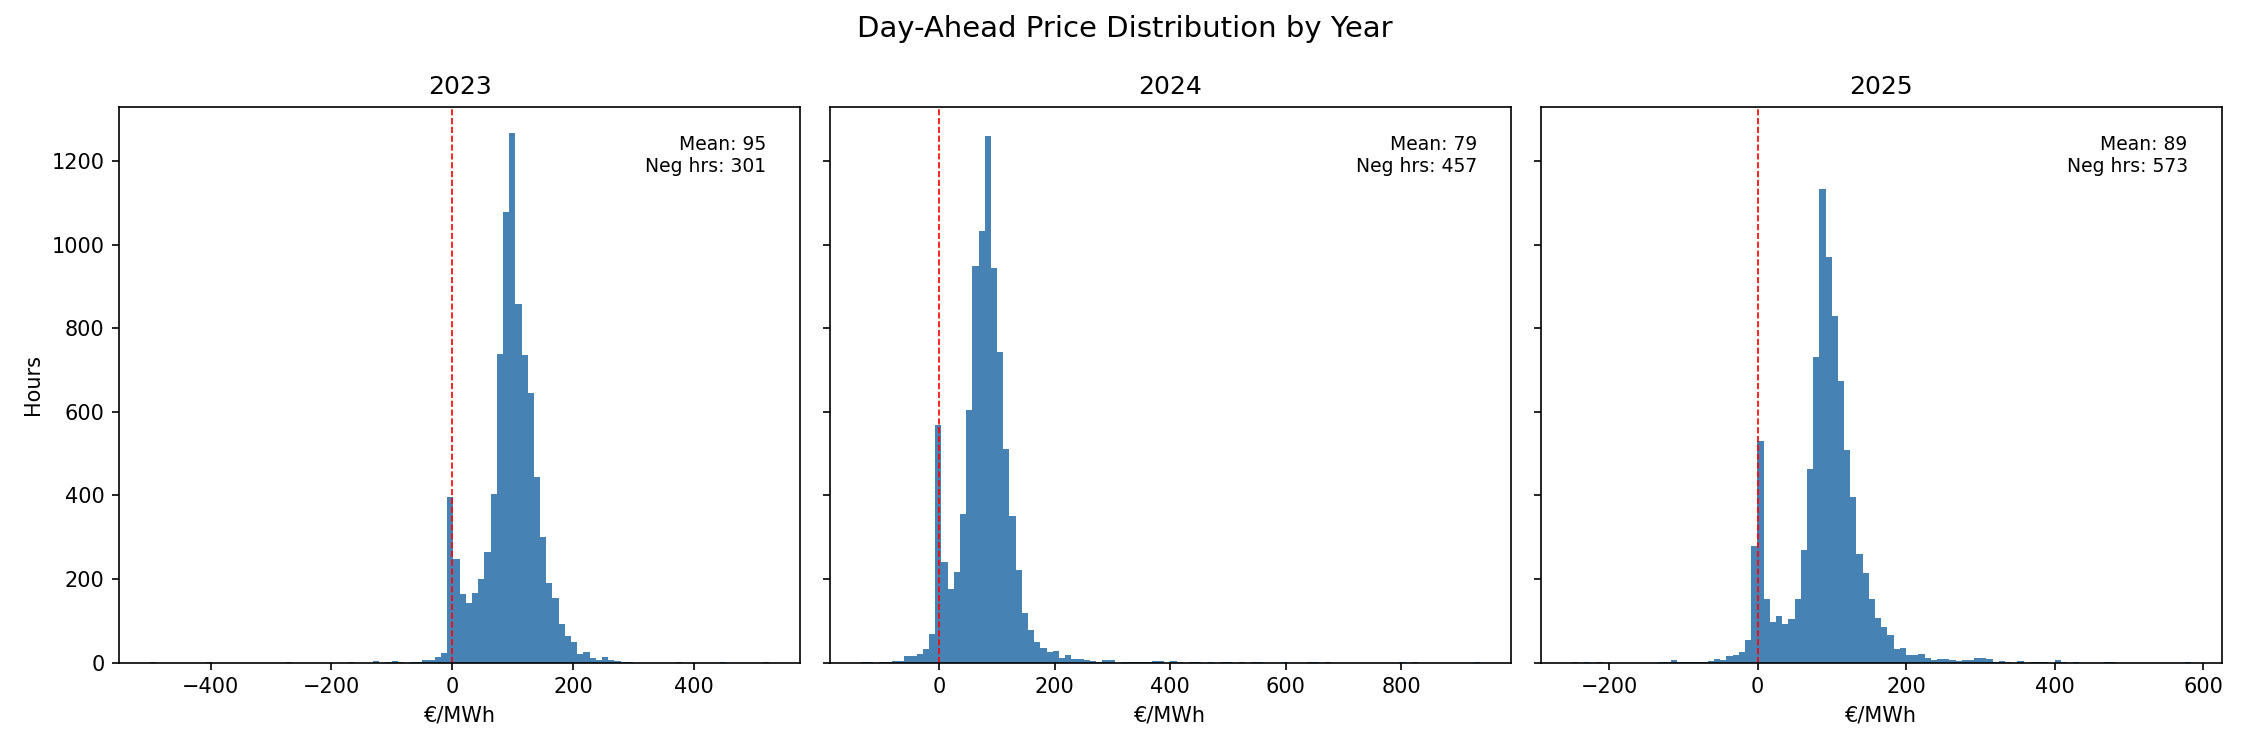
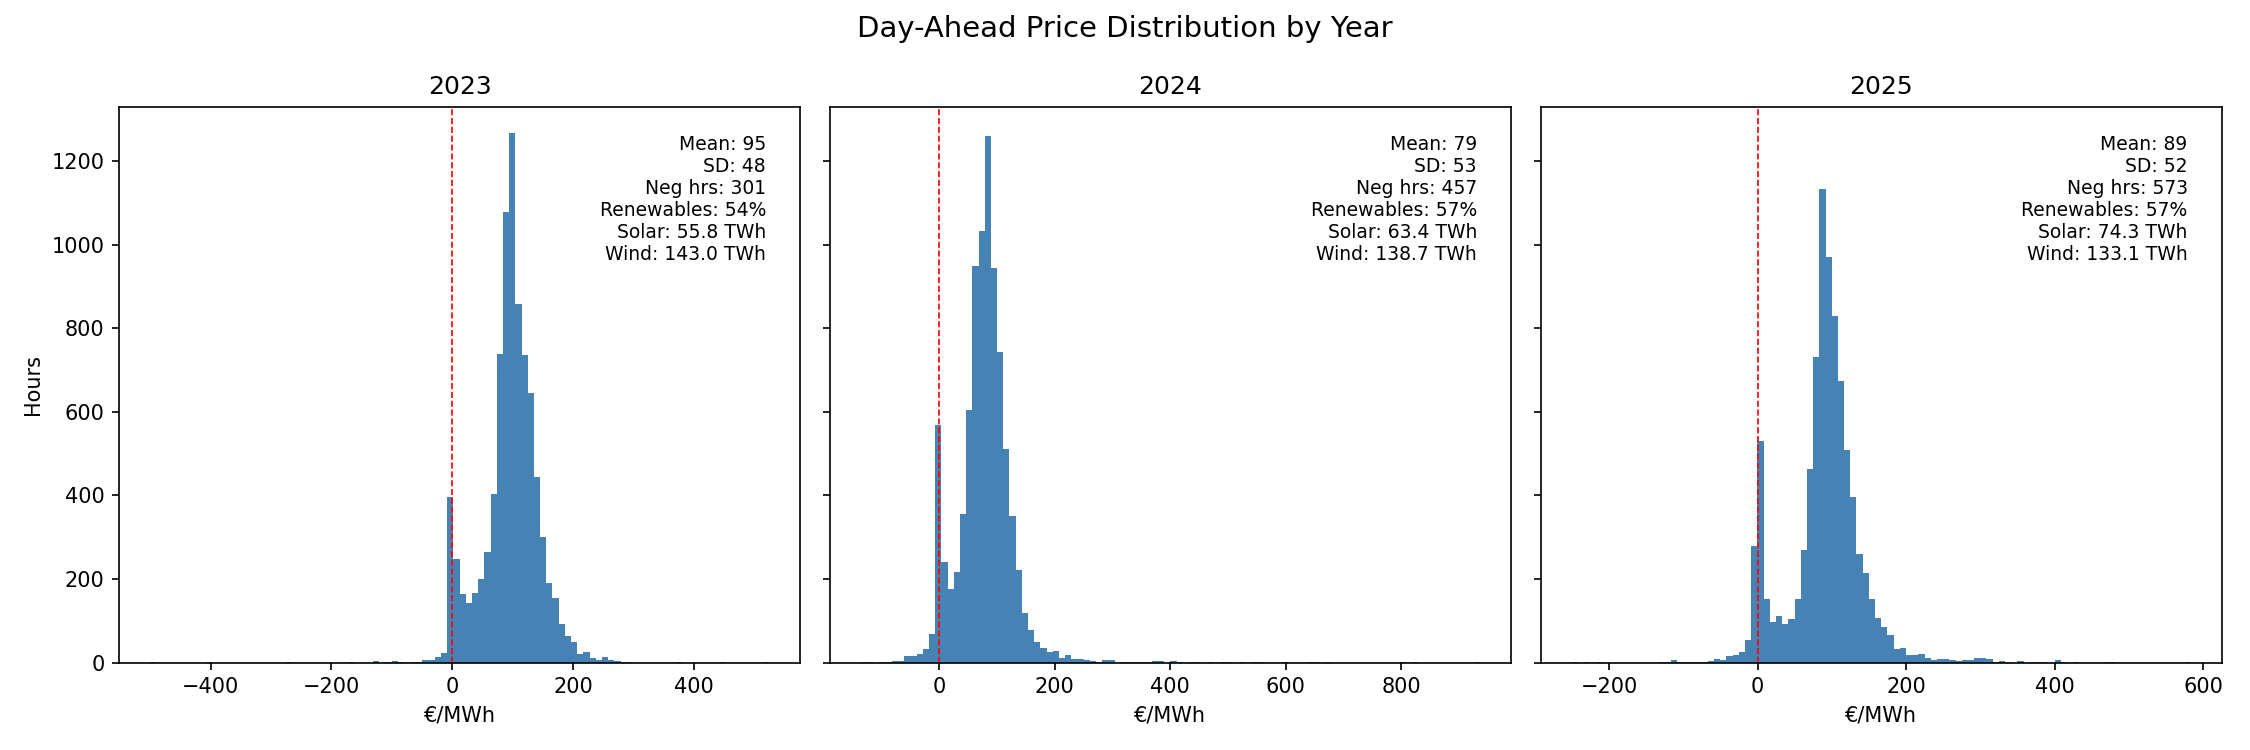
bass wedge table

Changed region(s): [[0.2489, 0.2147, 0.3422, 0.368], [0.9022, 0.2147, 0.9644, 0.368], [0.5911, 0.2147, 0.6533, 0.368]]

diff --git a/07_bass_model.py b/07_bass_model.py
@@ -210,6 +210,32 @@ print(f"\nq scenarios:")
 for label, params in Q_SCENARIOS.items():
     print(f"  {label}: q={params['q']} — {params['label']}")
 
+# Unconstrained vs constrained adoption
+
+print("\n=== UNCONSTRAINED vs CONSTRAINED — central and high q scenarios ===")
+print(f"\n{'q':<10}{'p':<10}{'2030 unc':>12}{'2030 con':>12}{'2032 unc':>12}{'2032 con':>12}{'2035 unc':>12}{'2035 con':>12}{'wedge 2035':>12}")
+print("-" * 104)
+
+for q_label in ['central', 'high']:
+    q = Q_SCENARIOS[q_label]['q']
+    for p_label in ['low', 'central', 'high']:
+        p = P_SCENARIOS[p_label]['p']
+        M_longrun = M_T[-1]
+        unc = bass_cumulative(T, p, q, M_longrun)
+        ceiling = np.minimum(M_T, I_T)
+        con = np.minimum(unc, ceiling)
+
+        idx = {2030: 5, 2032: 7, 2035: 10}
+        print(f"{q_label:<10}{p_label:<10}"
+              f"{unc[idx[2030]]/1e6:>11.2f}M"
+              f"{con[idx[2030]]/1e6:>11.2f}M"
+              f"{unc[idx[2032]]/1e6:>11.2f}M"
+              f"{con[idx[2032]]/1e6:>11.2f}M"
+              f"{unc[idx[2035]]/1e6:>11.2f}M"
+              f"{con[idx[2035]]/1e6:>11.2f}M"
+              f"{(unc[idx[2035]]-con[idx[2035]])/1e6:>11.2f}M")
+    print()
+
 # ============================================================
 # FIGURE 1 — 3 panels, one per q scenario
 # Each panel: 3 adoption lines (low/central/high p) + M(t) and I(t)

diff --git a/02_exploratory_analysis.py b/02_exploratory_analysis.py
@@ -141,7 +141,8 @@ for i, year in enumerate([2023, 2024, 2025]):
     axes[i].set_xlabel('€/MWh')
     neg = (subset < 0).sum()
     mean = subset.mean()
-    axes[i].text(0.95, 0.95, f'Mean: {mean:.0f}\nNeg hrs: {neg}',
+    axes[i].text(0.95, 0.95,
+                 f'Mean: {mean:.0f}\nSD: {subset.std():.0f}\nNeg hrs: {neg}\nRenewables: {master.loc[master["year"] == year, "renewable_share"].mean():.0f}%\nSolar: {master.loc[master["year"] == year, "solar"].sum() / 1e6:.1f} TWh\nWind: {(master.loc[master["year"] == year, "wind_onshore"] + master.loc[master["year"] == year, "wind_offshore"]).sum() / 1e6:.1f} TWh',
                  transform=axes[i].transAxes, ha='right', va='top', fontsize=9)
 
 axes[0].set_ylabel('Hours')